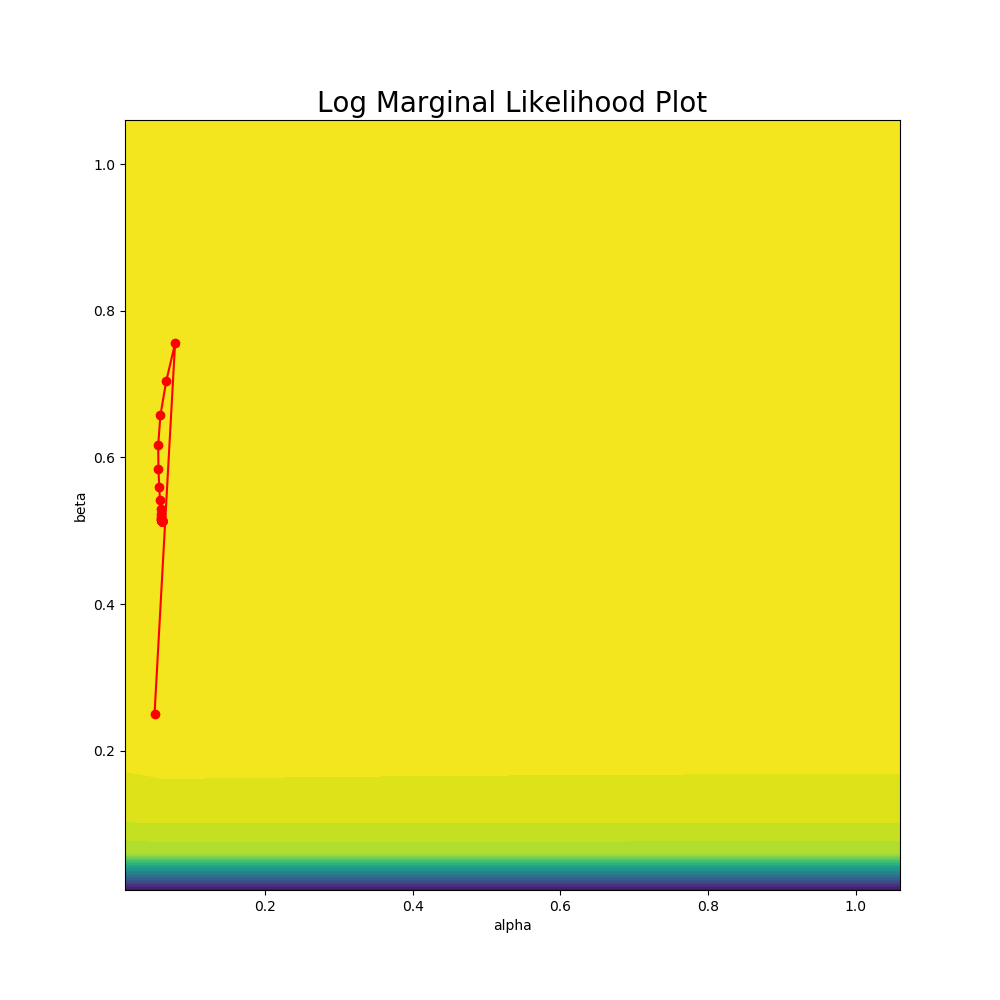
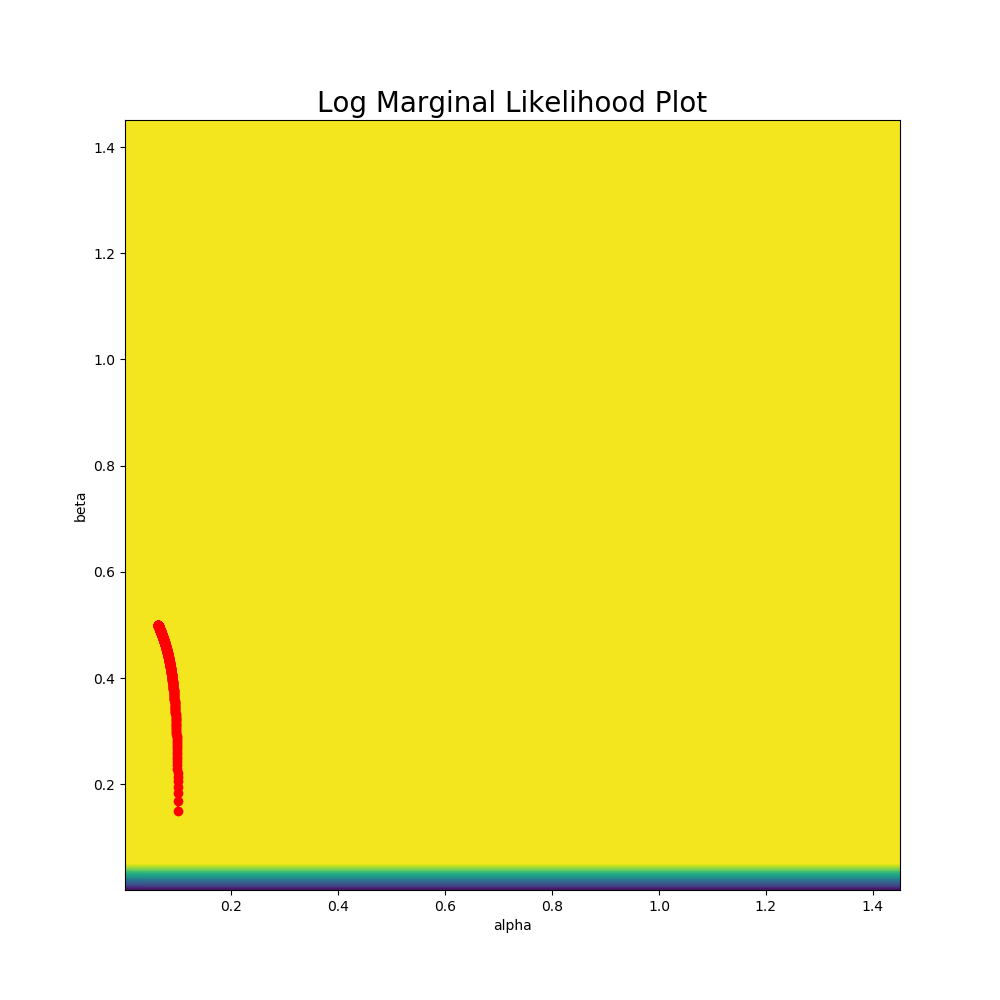
Tiny change for K=0

diff --git a/trigonometric_grad_descent.py b/trigonometric_grad_descent.py
@@ -45,8 +45,8 @@ def plot_contour_with_grad_descent(K, step_size):
 
     # X = alpha range
     # Y = beta range
-    X = np.arange(0.001, 0.5, 0.05)
-    Y = np.arange(0.001, 0.5, 0.05)
+    X = np.arange(0.001, 1.5, 0.05)
+    Y = np.arange(0.001, 1.5, 0.05)
 
     X, Y = np.meshgrid(X, Y)
 
@@ -96,7 +96,7 @@ def plot_contour_with_grad_descent(K, step_size):
 
 # K, step size
 def main():
-    plot_contour_with_grad_descent(6, 0.0001)
+    plot_contour_with_grad_descent(0, 0.0001)
     pass
 # K_list = []
 # sigma_list = []
